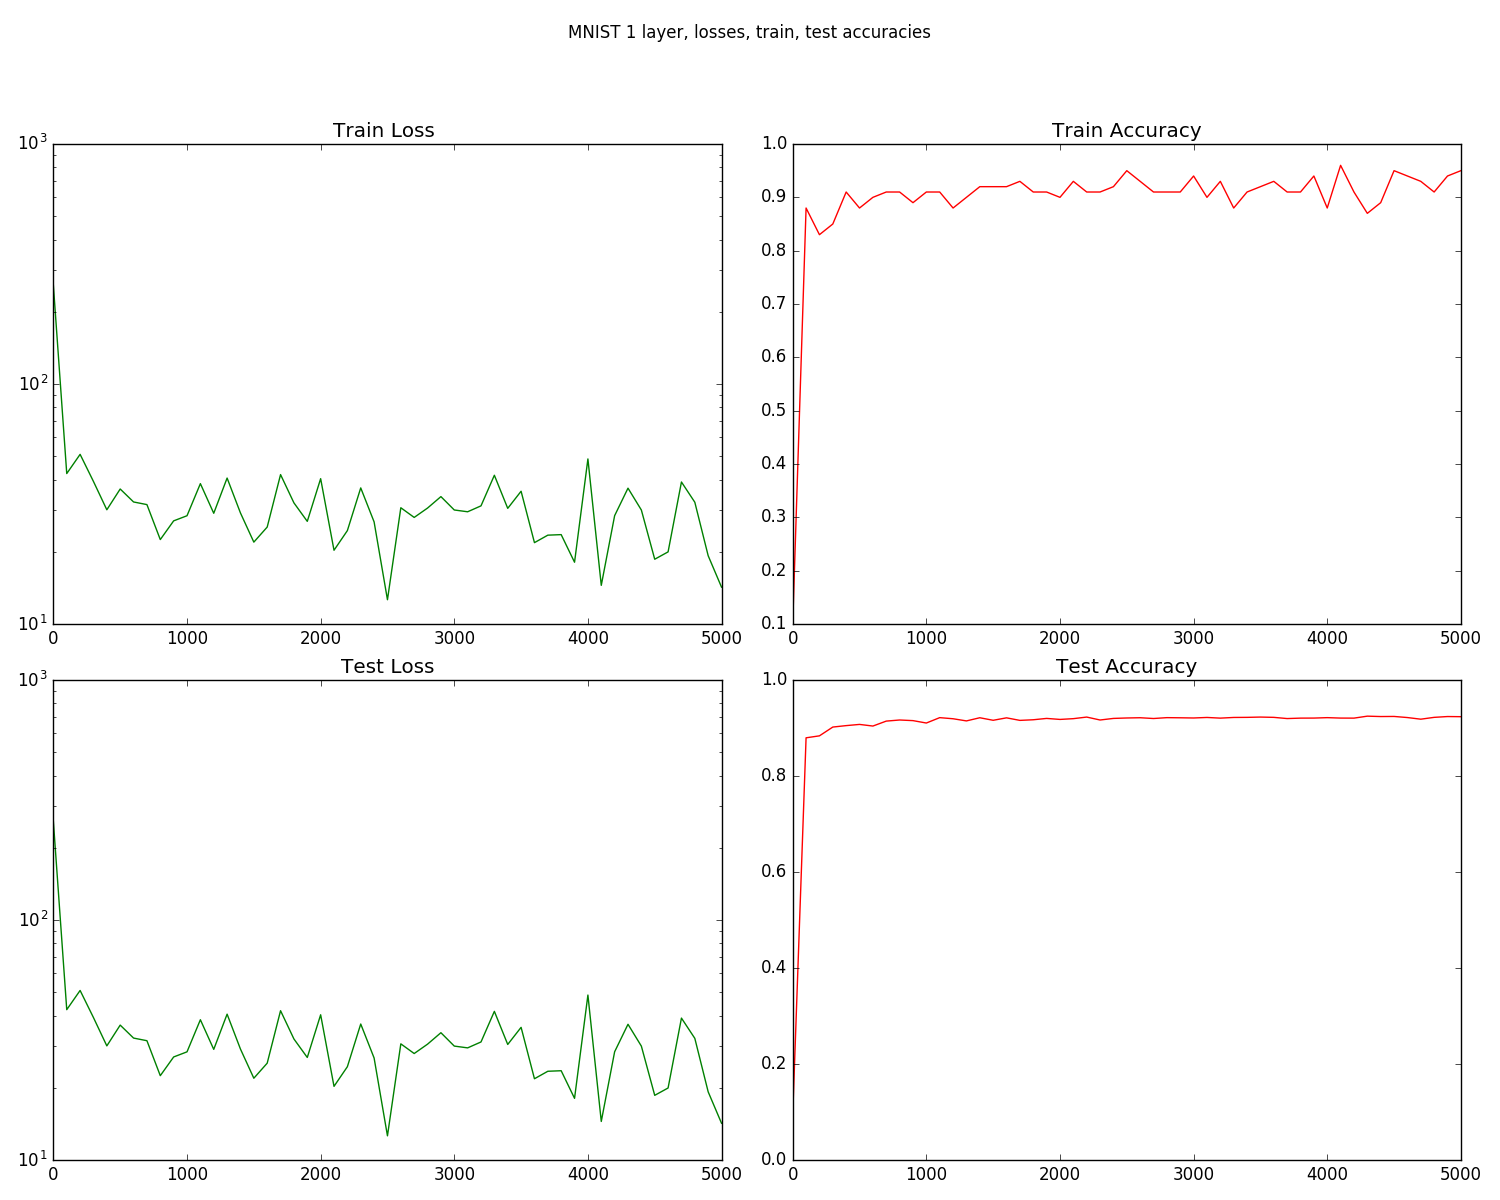
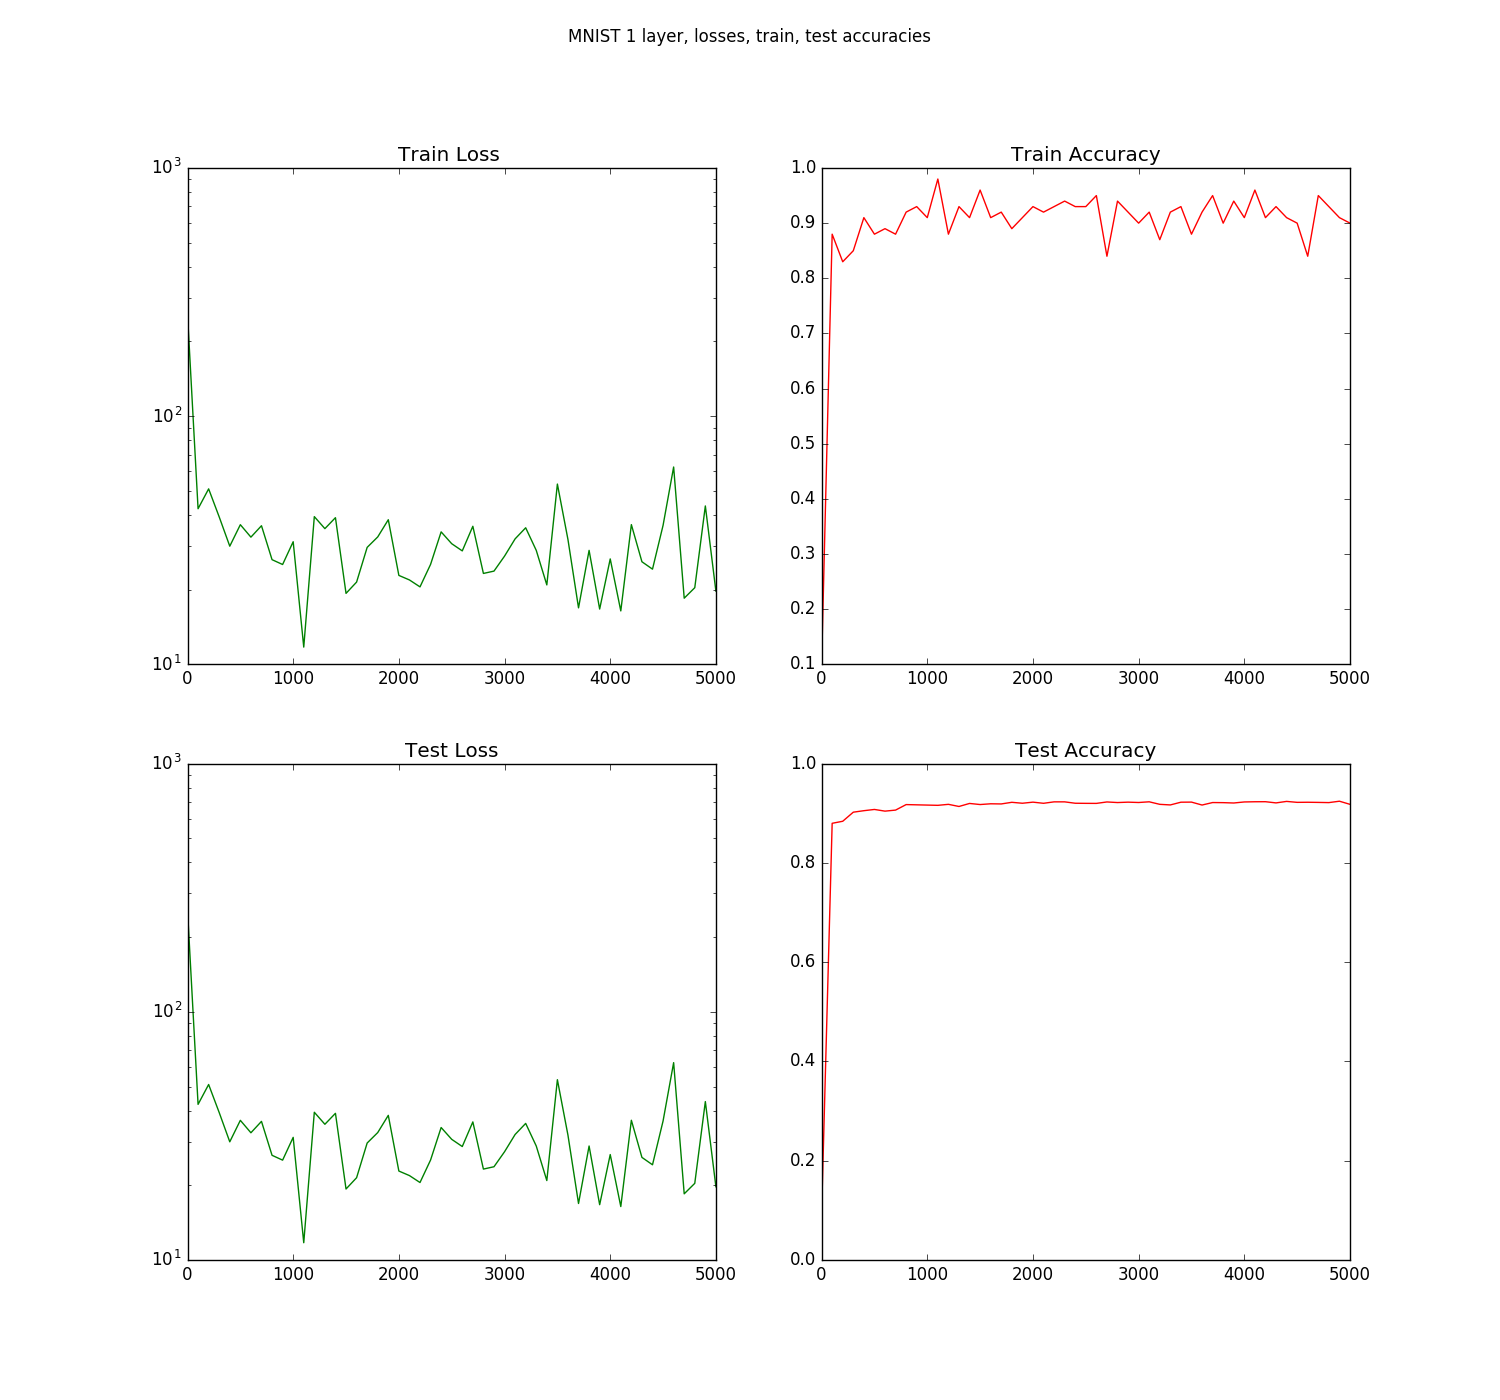
add new 5 layer networoks, one with relu and adam, second one with additional dropout

diff --git a/mnist_5_layer_nn_relu_adam.py b/mnist_5_layer_nn_relu_adam.py
@@ -5,12 +5,20 @@
 # Licensed under the MIT
 
 # Network architecture:
-# Single layer neural network, input layer 28*28= 784, output 10 (10 digits)
+# Five layer neural network, input layer 28*28= 784, output 10 (10 digits)
 # Output labels uses one-hot encoding
 
 # input layer             - X[batch, 784]
-# Fully connected         - W[784,10] + b[10]
-# One-hot encoded labels  - Y[batch, 10]
+# 1 layer                 - W1[784, 200] + b1[200]
+#                           Y1[batch, 200] 
+# 2 layer                 - W2[200, 100] + b2[100]
+#                           Y2[batch, 200] 
+# 3 layer                 - W3[100, 60]  + b3[60]
+#                           Y3[batch, 200] 
+# 4 layer                 - W4[60, 30]   + b4[30]
+#                           Y4[batch, 30] 
+# 5 layer                 - W5[30, 10]   + b5[10]
+# One-hot encoded labels    Y5[batch, 10]
 
 # model
 # Y = softmax(X*W+b)
@@ -43,17 +51,46 @@ mnist = read_data_sets("MNISTdata", one_hot=True, reshape=False, validation_size
 X = tf.placeholder(tf.float32, [None, 28, 28, 1])
 # correct answers will go here
 Y_ = tf.placeholder(tf.float32, [None, 10])
-# weights W[784, 10] - initialized with random values from normal distribution mean=0, stddev=0.1
-W = tf.Variable(tf.truncated_normal([784, 10],stddev=0.1))
-# biases b[10]
-b = tf.Variable(tf.zeros([10]))
+
+
+
+# layers sizes
+L1 = 200
+L2 = 100
+L3 = 60
+L4 = 30
+L5 = 10
+
+# weights - initialized with random values from normal distribution mean=0, stddev=0.1
+# output of one layer is input for the next
+W1 = tf.Variable(tf.truncated_normal([784, L1], stddev=0.1))
+b1 = tf.Variable(tf.zeros([L1]))
+
+W2 = tf.Variable(tf.truncated_normal([L1, L2], stddev=0.1))
+b2 = tf.Variable(tf.zeros([L2]))
+
+W3 = tf.Variable(tf.truncated_normal([L2, L3], stddev=0.1))
+b3 = tf.Variable(tf.zeros([L3]))
+
+W4 = tf.Variable(tf.truncated_normal([L3, L4], stddev=0.1))
+b4 = tf.Variable(tf.zeros([L4]))
+
+W5 = tf.Variable(tf.truncated_normal([L4, L5], stddev=0.1))
+b5 = tf.Variable(tf.zeros([L5]))
+
+
 
 # flatten the images, unrole eacha image row by row, create vector[784] 
 # -1 in the shape definition means compute automatically the size of this dimension
 XX = tf.reshape(X, [-1, 784])
 
 # Define model
-Y = tf.nn.softmax(tf.matmul(XX, W) + b)
+Y1 = tf.nn.relu(tf.matmul(XX, W1) + b1)
+Y2 = tf.nn.relu(tf.matmul(Y1, W2) + b2)
+Y3 = tf.nn.relu(tf.matmul(Y2, W3) + b3)
+Y4 = tf.nn.relu(tf.matmul(Y3, W4) + b4)
+Ylogits = tf.matmul(Y4, W5) + b5
+Y = tf.nn.softmax(Ylogits)
 
 # loss function: cross-entropy = - sum( Y_i * log(Yi) )
 #                           Y: the computed output vector
@@ -63,22 +100,25 @@ Y = tf.nn.softmax(tf.matmul(XX, W) + b)
 # log takes the log of each element, * multiplies the tensors element by element
 # reduce_mean will add all the components in the tensor
 # so here we end up with the total cross-entropy for all images in the batch
-cross_entropy = -tf.reduce_mean(Y_ * tf.log(Y)) * 1000.0  # normalized for batches of 100 images,
-                                                          # *10 because  "mean" included an unwanted division by 10
+#cross_entropy = -tf.reduce_mean(Y_ * tf.log(Y)) * 100.0  # normalized for batches of 100 images,
 
+
+# we can also use tensorflow function for softmax
+cross_entropy = tf.nn.softmax_cross_entropy_with_logits(logits=Ylogits, labels=Y_)
+cross_entropy = tf.reduce_mean(cross_entropy)*100
+
+                                                          
 # accuracy of the trained model, between 0 (worst) and 1 (best)
 correct_prediction = tf.equal(tf.argmax(Y, 1), tf.argmax(Y_, 1))
 accuracy = tf.reduce_mean(tf.cast(correct_prediction, tf.float32))
 
-# training, learning rate = 0.005
-train_step = tf.train.GradientDescentOptimizer(0.005).minimize(cross_entropy)
+# training, 
+learning_rate = 0.003
+train_step = tf.train.AdamOptimizer(learning_rate).minimize(cross_entropy)
 
 # matplotlib visualisation
-allweights = tf.reshape(W, [-1])
-allbiases = tf.reshape(b, [-1])
-
-
-
+allweights = tf.concat([tf.reshape(W1, [-1]), tf.reshape(W2, [-1]), tf.reshape(W3, [-1]), tf.reshape(W4, [-1]), tf.reshape(W5, [-1])], 0)
+allbiases  = tf.concat([tf.reshape(b1, [-1]), tf.reshape(b2, [-1]), tf.reshape(b3, [-1]), tf.reshape(b4, [-1]), tf.reshape(b5, [-1])], 0)
 
 
 # Initializing the variables
@@ -118,19 +158,23 @@ with tf.Session() as sess:
         sess.run(train_step, feed_dict={X: batch_X, Y_: batch_Y})
 
 
-
-title = "MNIST 1 layer"
+title = "MNIST 5 layer, relu, adam"
 vis.losses_accuracies_plots(train_losses,train_acc,test_losses, test_acc,title,DISPLAY_STEP)
 
 
-# sample output for 5k iteration 
-# one layer TST acc= 0.9237
 
-#0 Trn acc=0.10000000149011612 , Trn loss=257.5960998535156 Tst acc=0.09359999746084213 , Tst loss=262.1988525390625
-#100 Trn acc=0.8799999952316284 , Trn loss=42.37456512451172 Tst acc=0.879800021648407 , Tst loss=41.94294357299805
-#200 Trn acc=0.8299999833106995 , Trn loss=50.943721771240234 Tst acc=0.883899986743927 , Tst loss=39.74076843261719
-#300 Trn acc=0.8500000238418579 , Trn loss=39.26817321777344 Tst acc=0.9021999835968018 , Tst loss=33.9247932434082
-# ....
-#4800 Trn acc=0.9700000286102295 , Trn loss=11.897256851196289 Tst acc=0.9749000072479248 , Tst loss=9.952529907226562
-#4900 Trn acc=0.9800000190734863 , Trn loss=4.757292747497559 Tst acc=0.974399983882904 , Tst loss=11.507346153259277
-#5000 Trn acc=0.9900000095367432 , Trn loss=4.661561012268066 Tst acc=0.9732999801635742 , Tst loss=11.199274063110352
+# Restults
+
+# mnist_single_layer_nn.py acc= 0.9237 
+# mnist__layer_nn.py TST acc = 0.9534
+# mnist__layer_nn_relu_adam.py TST acc = 0.9771
+
+# sample output for 5k iterations
+#0 Trn acc=0.10000000149011612 , Trn loss=229.3443603515625 Tst acc=0.11999999731779099 , Tst loss=230.12518310546875
+#100 Trn acc=0.9300000071525574 , Trn loss=30.25579071044922 Tst acc=0.8877000212669373 , Tst loss=35.22196578979492
+#200 Trn acc=0.8799999952316284 , Trn loss=33.183040618896484 Tst acc=0.9417999982833862 , Tst loss=19.18865966796875
+#300 Trn acc=0.9399999976158142 , Trn loss=21.5306396484375 Tst acc=0.9406999945640564 , Tst loss=19.576183319091797
+# ...
+#4800 Trn acc=0.949999988079071 , Trn loss=16.546607971191406 Tst acc=0.9739999771118164 , Tst loss=10.48233699798584
+#4900 Trn acc=1.0 , Trn loss=0.8173556327819824 Tst acc=0.9768000245094299 , Tst loss=11.440749168395996
+#5000 Trn acc=1.0 , Trn loss=0.5762706398963928 Tst acc=0.9771000146865845 , Tst loss=10.08562183380127

diff --git a/mnist_5_layer_nn_relu_adam_dropout.py b/mnist_5_layer_nn_relu_adam_dropout.py
@@ -51,7 +51,8 @@ mnist = read_data_sets("MNISTdata", one_hot=True, reshape=False, validation_size
 X = tf.placeholder(tf.float32, [None, 28, 28, 1])
 # correct answers will go here
 Y_ = tf.placeholder(tf.float32, [None, 10])
-
+# Probability of keeping a node during dropout = 1.0 at test time (no dropout) and 0.75 at training time
+pkeep = tf.placeholder(tf.float32)
 
 # layers sizes
 L1 = 200
@@ -79,15 +80,23 @@ b5 = tf.Variable(tf.zeros([L5]))
 
 
 
-# flatten the images, unrole eacha image row by row, create vector[784]
+# flatten the images, unrole eacha image row by row, create vector[784] 
 # -1 in the shape definition means compute automatically the size of this dimension
 XX = tf.reshape(X, [-1, 784])
 
 # Define model
-Y1 = tf.nn.sigmoid(tf.matmul(XX, W1) + b1)
-Y2 = tf.nn.sigmoid(tf.matmul(Y1, W2) + b2)
-Y3 = tf.nn.sigmoid(tf.matmul(Y2, W3) + b3)
-Y4 = tf.nn.sigmoid(tf.matmul(Y3, W4) + b4)
+Y1 = tf.nn.relu(tf.matmul(XX, W1) + b1)
+Y1 = tf.nn.dropout(Y1, pkeep)
+
+Y2 = tf.nn.relu(tf.matmul(Y1, W2) + b2)
+Y2 = tf.nn.dropout(Y2, pkeep)
+
+Y3 = tf.nn.relu(tf.matmul(Y2, W3) + b3)
+Y3 = tf.nn.dropout(Y3, pkeep)
+
+Y4 = tf.nn.relu(tf.matmul(Y3, W4) + b4)
+Y4 = tf.nn.dropout(Y4, pkeep)
+
 Ylogits = tf.matmul(Y4, W5) + b5
 Y = tf.nn.softmax(Ylogits)
 
@@ -111,14 +120,13 @@ cross_entropy = tf.reduce_mean(cross_entropy)*100
 correct_prediction = tf.equal(tf.argmax(Y, 1), tf.argmax(Y_, 1))
 accuracy = tf.reduce_mean(tf.cast(correct_prediction, tf.float32))
 
-# training, learning rate = 0.005
-train_step = tf.train.GradientDescentOptimizer(0.005).minimize(cross_entropy)
+# training, 
+learning_rate = 0.003
+train_step = tf.train.AdamOptimizer(learning_rate).minimize(cross_entropy)
 
 # matplotlib visualisation
 allweights = tf.concat([tf.reshape(W1, [-1]), tf.reshape(W2, [-1]), tf.reshape(W3, [-1]), tf.reshape(W4, [-1]), tf.reshape(W5, [-1])], 0)
 allbiases  = tf.concat([tf.reshape(b1, [-1]), tf.reshape(b2, [-1]), tf.reshape(b3, [-1]), tf.reshape(b4, [-1]), tf.reshape(b5, [-1])], 0)
-
-
 
 
 # Initializing the variables
@@ -142,10 +150,10 @@ with tf.Session() as sess:
         
         if i%DISPLAY_STEP ==0:
             # compute training values for visualisation
-            acc_trn, loss_trn, w, b = sess.run([accuracy, cross_entropy, allweights, allbiases], feed_dict={X: batch_X, Y_: batch_Y})
+            acc_trn, loss_trn, w, b = sess.run([accuracy, cross_entropy, allweights, allbiases], feed_dict={X: batch_X, Y_: batch_Y, pkeep: 1.0})
             
             
-            acc_tst, loss_tst = sess.run([accuracy, cross_entropy], feed_dict={X: mnist.test.images, Y_: mnist.test.labels})
+            acc_tst, loss_tst = sess.run([accuracy, cross_entropy], feed_dict={X: mnist.test.images, Y_: mnist.test.labels, pkeep: 1.0})
             
             print("#{} Trn acc={} , Trn loss={} Tst acc={} , Tst loss={}".format(i,acc_trn,loss_trn,acc_tst,loss_tst))
 
@@ -155,24 +163,26 @@ with tf.Session() as sess:
             test_acc.append(acc_tst)
 
         # the backpropagationn training step
-        sess.run(train_step, feed_dict={X: batch_X, Y_: batch_Y})
+        sess.run(train_step, feed_dict={X: batch_X, Y_: batch_Y, pkeep: 0.75})
 
 
-title = "MNIST 5 layer"
+title = "MNIST 5 layer, relu, adam, dropout"
 vis.losses_accuracies_plots(train_losses,train_acc,test_losses, test_acc,title,DISPLAY_STEP)
+
 
 
 # Restults
 # mnist_single_layer_nn.py acc= 0.9237 
 # mnist__layer_nn.py TST acc = 0.9534
+# mnist__layer_nn_relu_adam.py TST acc = 0.9771
+# mnist__layer_nn_relu_adam_dropout.py TST acc = 
 
-
-# sample output for 5k iterations 
-#0 Trn acc=0.10999999940395355 , Trn loss=230.5011444091797 Tst acc=0.0957999974489212 , Tst loss=232.8909912109375
-#100 Trn acc=0.10000000149011612 , Trn loss=229.38812255859375 Tst acc=0.09799999743700027 , Tst loss=230.8378448486328
-#200 Trn acc=0.07000000029802322 , Trn loss=231.29209899902344 Tst acc=0.09799999743700027 , Tst loss=230.82485961914062
-#300 Trn acc=0.09000000357627869 , Trn loss=232.11734008789062 Tst acc=0.10090000182390213 , Tst loss=230.51341247558594
+# sample output for 5k iterations
+#0 Trn acc=0.10000000149011612 , Trn loss=229.3443603515625 Tst acc=0.11999999731779099 , Tst loss=230.12518310546875
+#100 Trn acc=0.9300000071525574 , Trn loss=30.25579071044922 Tst acc=0.8877000212669373 , Tst loss=35.22196578979492
+#200 Trn acc=0.8799999952316284 , Trn loss=33.183040618896484 Tst acc=0.9417999982833862 , Tst loss=19.18865966796875
+#300 Trn acc=0.9399999976158142 , Trn loss=21.5306396484375 Tst acc=0.9406999945640564 , Tst loss=19.576183319091797
 # ...
-#4800 Trn acc=0.949999988079071 , Trn loss=11.355264663696289 Tst acc=0.948199987411499 , Tst loss=17.340219497680664
-#4900 Trn acc=0.9399999976158142 , Trn loss=22.300941467285156 Tst acc=0.9466999769210815 , Tst loss=17.51348876953125
-#5000 Trn acc=0.9200000166893005 , Trn loss=20.947153091430664 Tst acc=0.953499972820282 , Tst loss=15.77566909790039
+#4800 Trn acc=0.9700000286102295 , Trn loss=11.897256851196289 Tst acc=0.9749000072479248 , Tst loss=9.952529907226562
+#4900 Trn acc=0.9800000190734863 , Trn loss=4.757292747497559 Tst acc=0.974399983882904 , Tst loss=11.507346153259277
+#5000 Trn acc=0.9900000095367432 , Trn loss=4.661561012268066 Tst acc=0.9732999801635742 , Tst loss=11.199274063110352

diff --git a/visualizations.py b/visualizations.py
@@ -36,7 +36,7 @@ def losses_accuracies_plots(train_losses, train_acc, test_losses, test_acc,plot_
     # iters_steps
     iter_steps = [step *k for k in range(training_iters)]
 
-    imh = plt.figure(1, figsize=(15, 12), dpi=160)
+    imh = plt.figure(1, figsize=(15, 14), dpi=160)
     # imh.tight_layout()
     # imh.subplots_adjust(top=0.88)
 
@@ -57,7 +57,7 @@ def losses_accuracies_plots(train_losses, train_acc, test_losses, test_acc,plot_
     plt.title('Test Accuracy')
 
 
-    plt.tight_layout()
+    #plt.tight_layout()
     plt.subplots_adjust(top=0.88)
 
     plt.savefig("./plots/"+plot_title)

diff --git a/README.md b/README.md
@@ -1,9 +1,10 @@
 # Tensorflow MNIST Convolutional Network Tutorial
 
-This project is another tutorial for teaching you Artificial Neural Networks. I hope that my way of presenting the material will help you in long learning process. All the examples are presented in [TensorFlow](https://www.tensorflow.org/) and as a runtime environment I choose the [online python IDE - PLON.io](https://plon.io). PLON makes much easier to share this tutorial and run computations online without any configuraion.
+This project is another tutorial for teaching you Artificial Neural Networks. I hope that my way of presenting the material will help you in long learning process. All the examples are presented in [TensorFlow](https://www.tensorflow.org/) and as a runtime environment I choose the [online python IDE - PLON.io](https://plon.io). PLON makes much easier to share this tutorial with you and run the computations online without any configuraion.
 
 Project presents four different neural nets for [MNIST](http://yann.lecun.com/exdb/mnist/) digit classification. The former two are [fully connected neural networks](https://en.wikipedia.org/wiki/Artificial_neural_network) and latter are [convolutional networks](https://en.wikipedia.org/wiki/Convolutional_neural_network). 
 Each network is build on top of previous example with gradually increasing difficulty in order to learn more powerful models.
+
 
 
 ## Models implemented:
@@ -41,4 +42,5 @@ Training consists of finding good W elements. This will be handled automaticaly 
 ## Furhter reading
 
 * [CS231n Convolutional Neural Networks for Visual Recognition](http://cs231n.github.io/convolutional-networks/)
+* [Tensorflow and deep learning without a PHD](https://codelabs.developers.google.com/codelabs/cloud-tensorflow-mnist/)
 * [What is the difference between a Fully-Connected and Convolutional Neural Network?](https://www.reddit.com/r/MachineLearning/comments/3yy7ko/what_is_the_difference_between_a_fullyconnected/)
